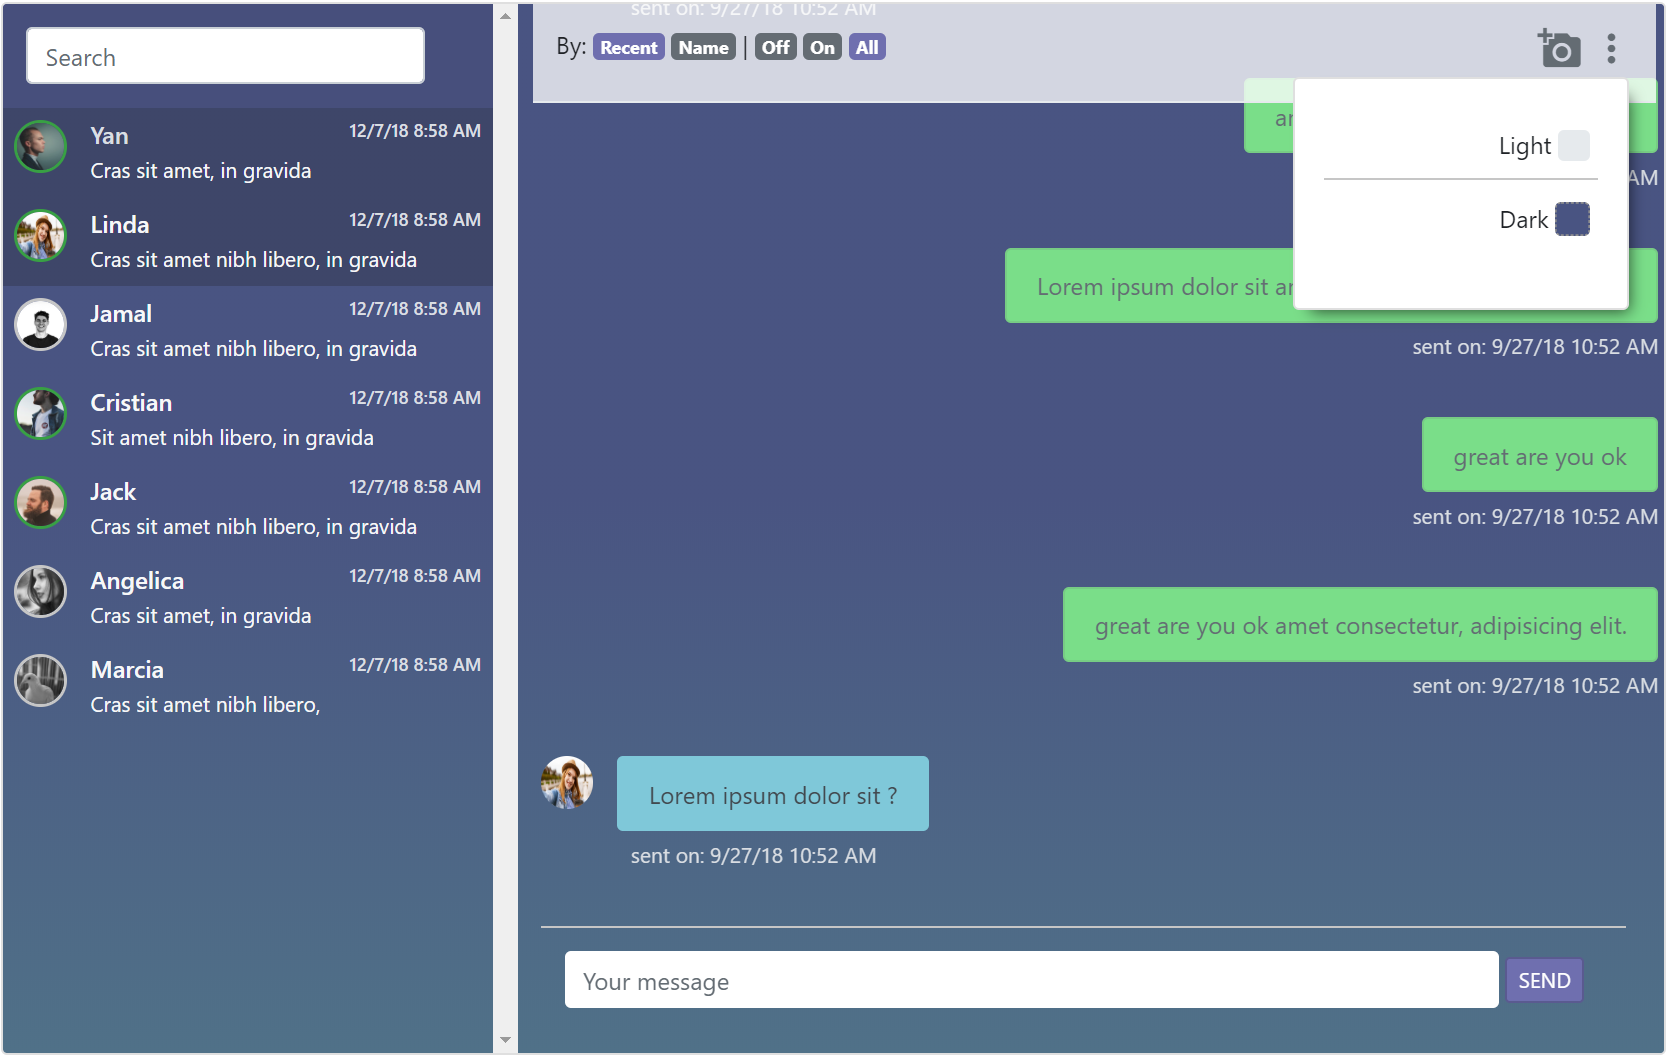
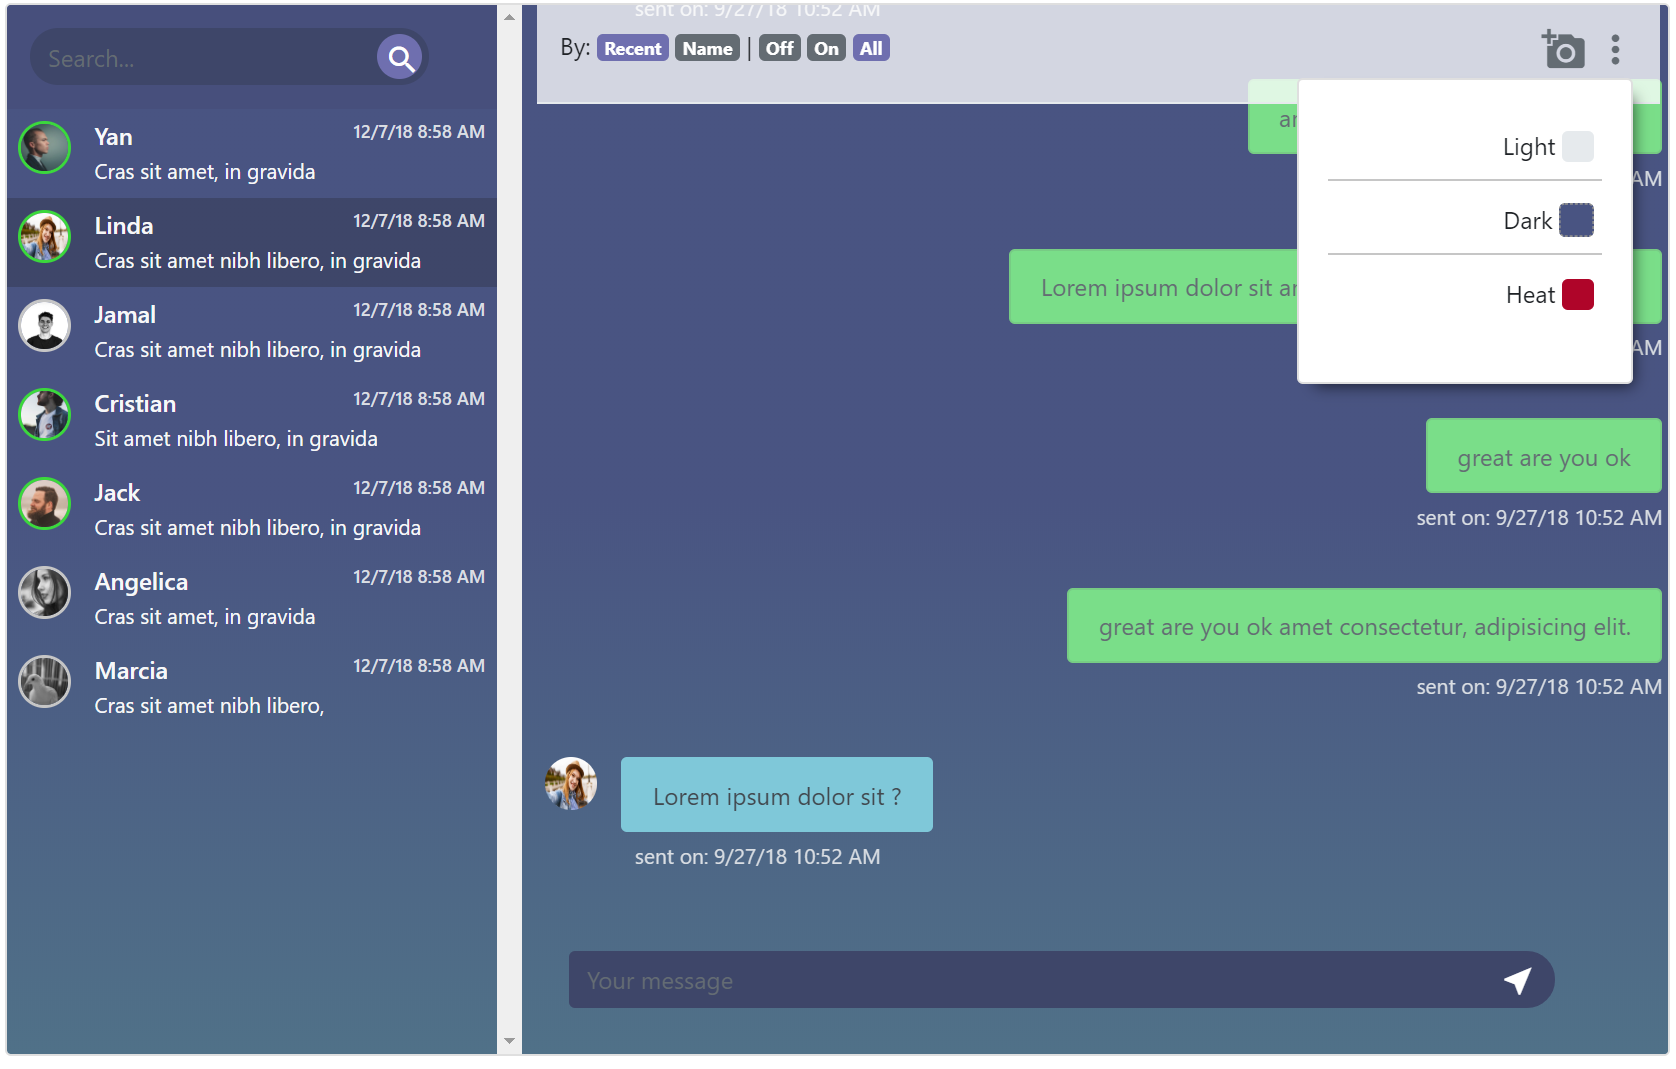
Update README

diff --git a/README.md b/README.md
@@ -10,6 +10,10 @@ It's a simple theme for a application chat, built with html5 css3 and Jquery,whe
 
 ![alt text](img/screen-dark.PNG "Description goes here")
 
+## Example dark Heat
+
+![alt text](img/screen-hot.PNG "Description goes here")
+
 ## Installation
 
 Just Donwload it and use
